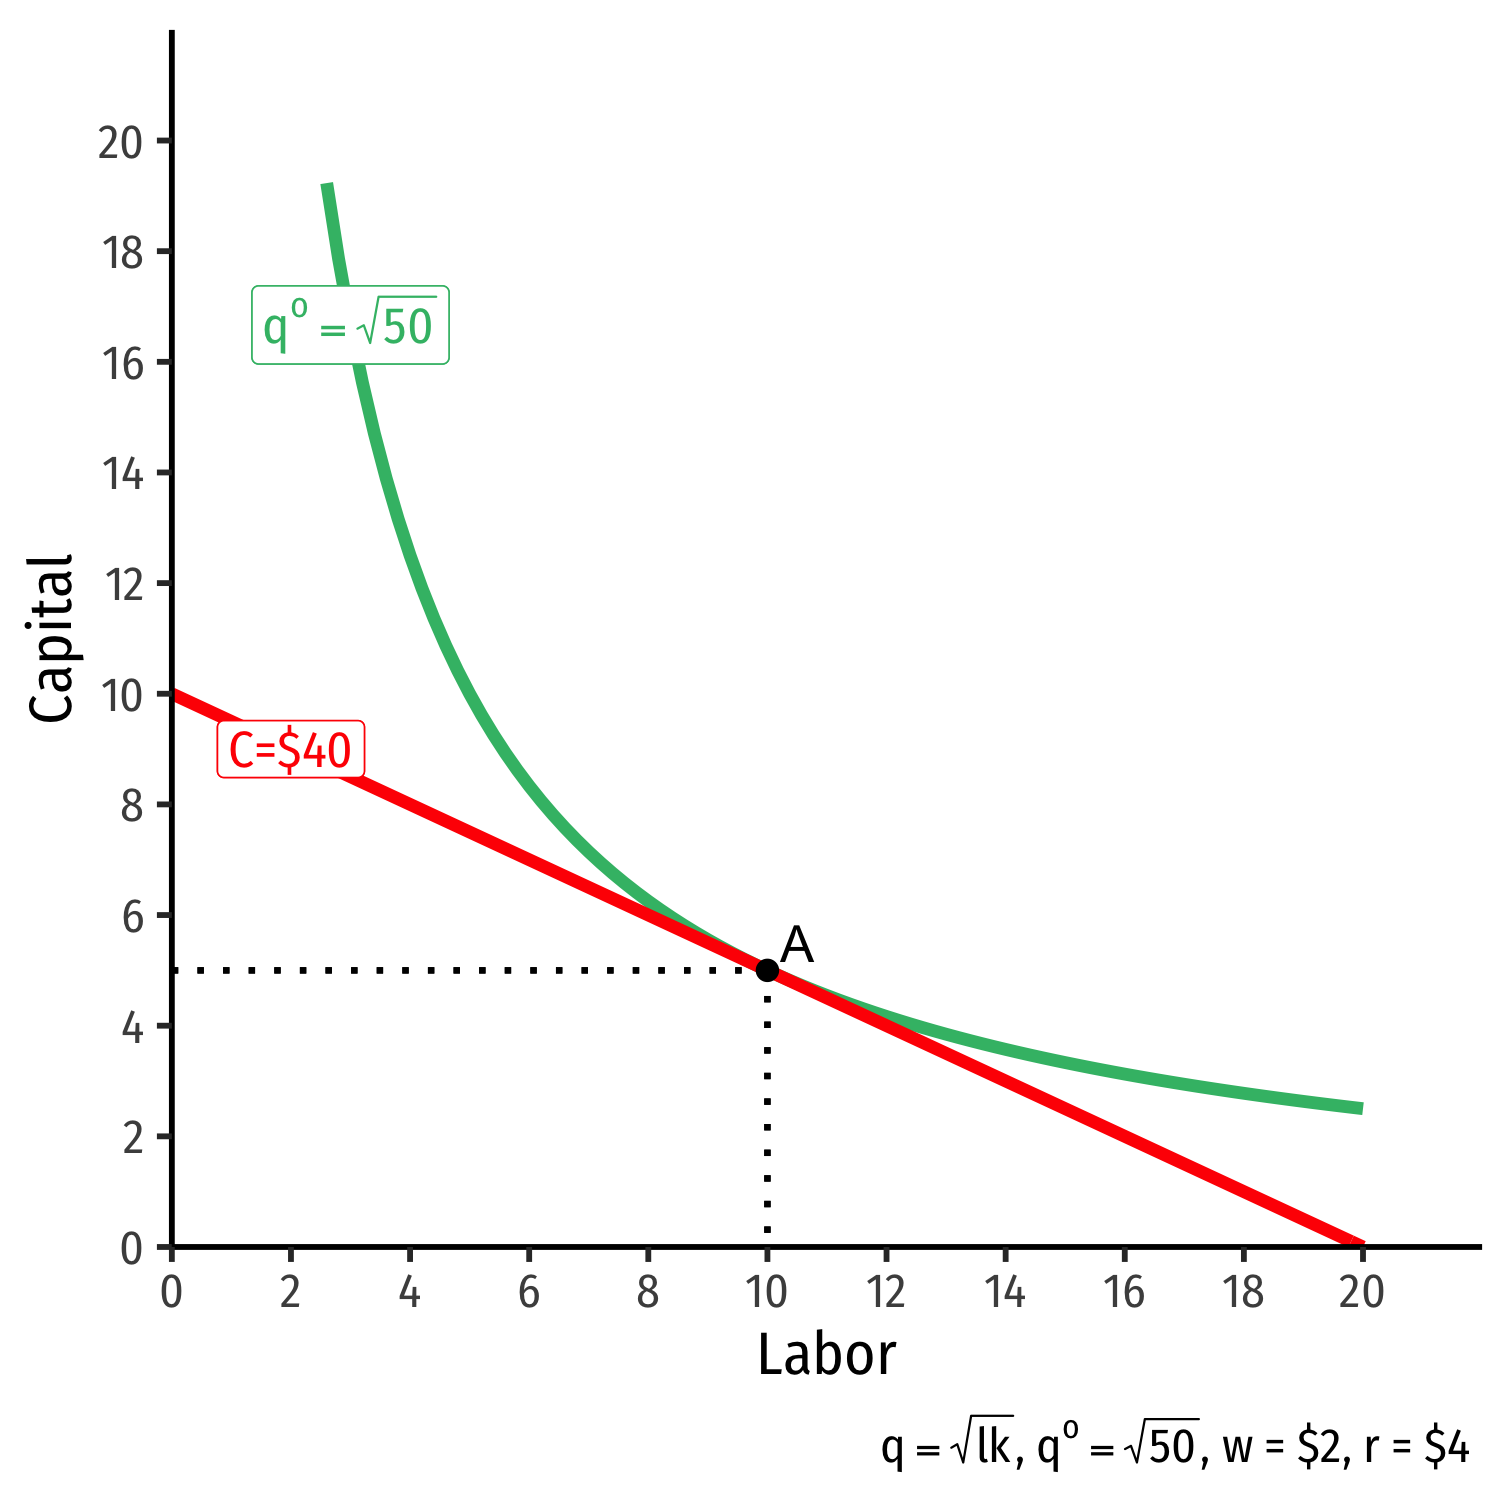
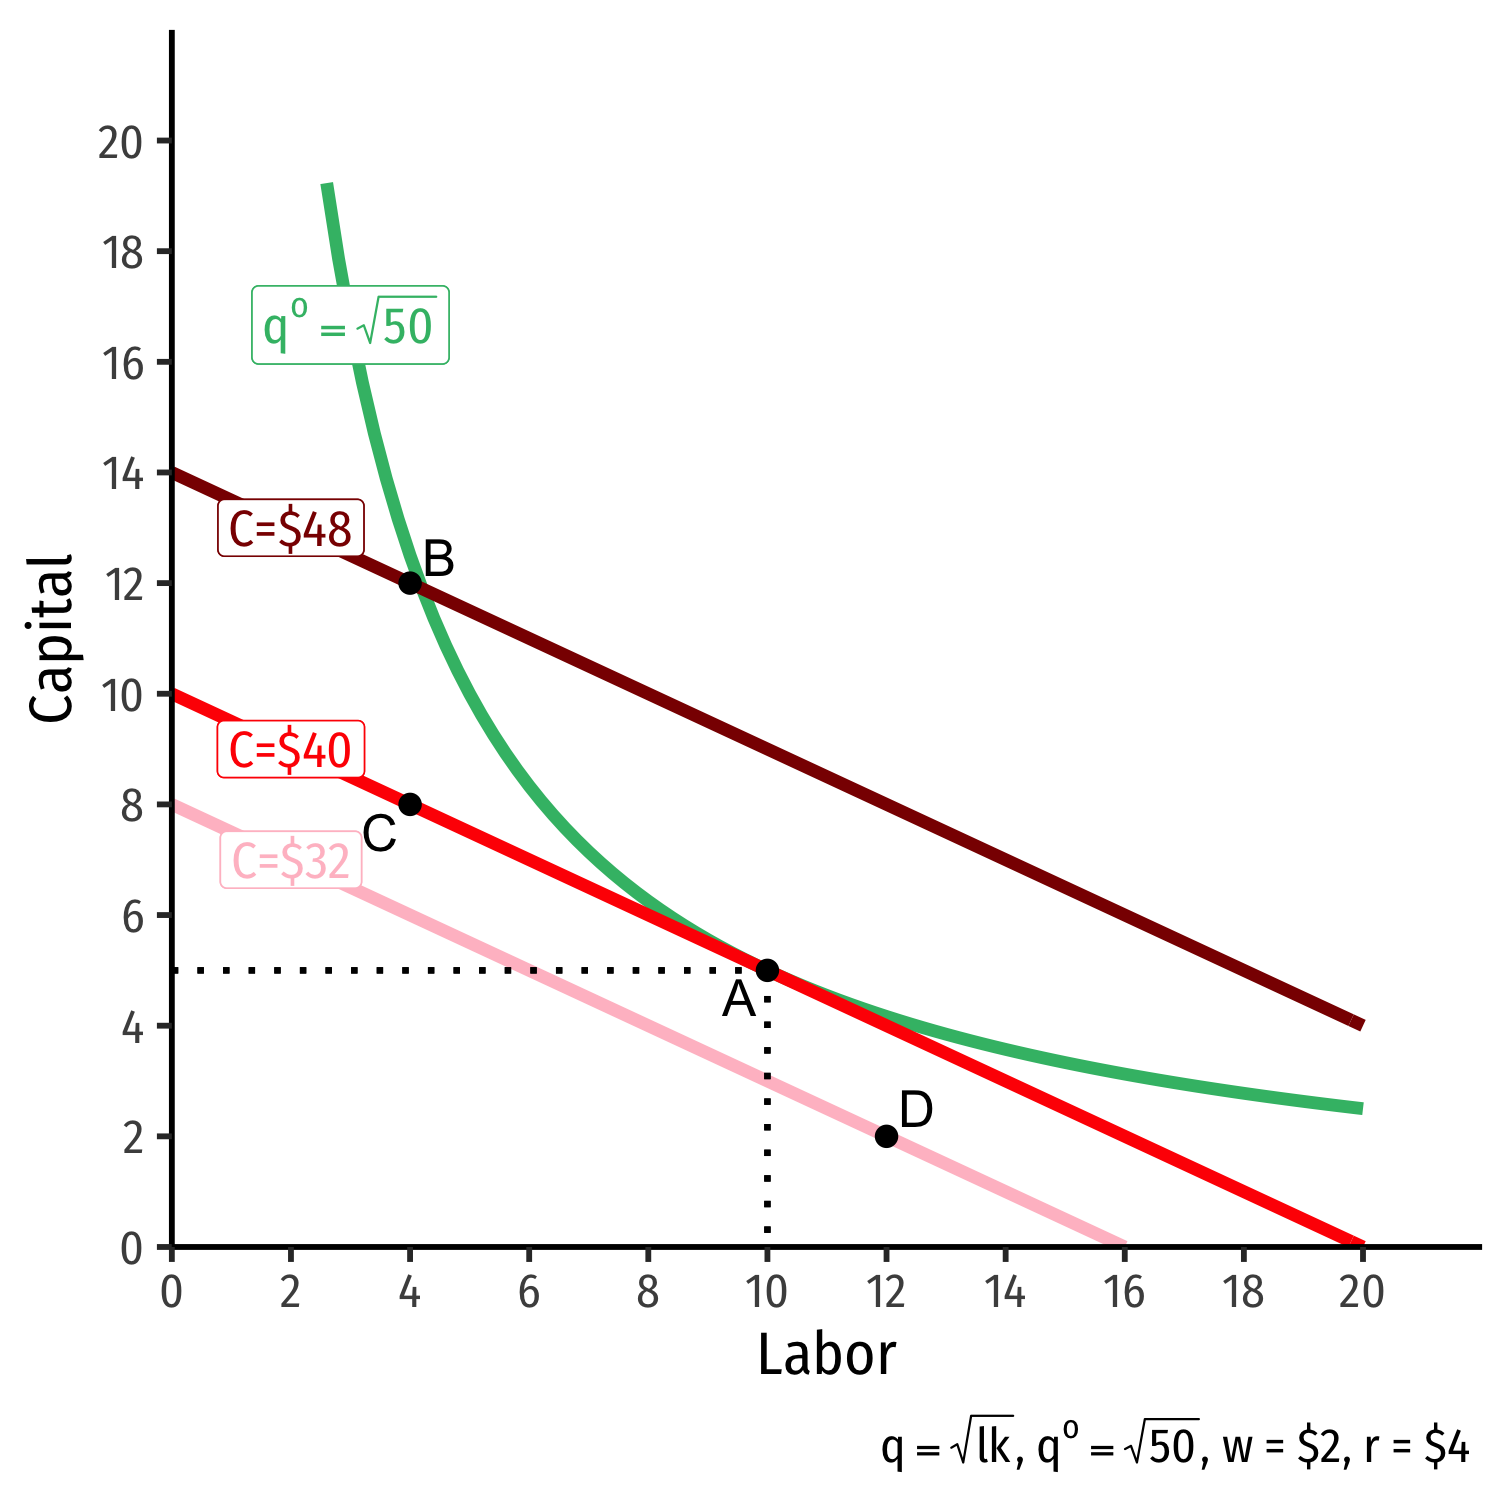
Tweak slides 2.3

diff --git a/static/slides/2.3-slides.html b/static/slides/2.3-slides.html
@@ -109,7 +109,10 @@ class: inverse, center, middle
 # The Cost Minimization Problem: Verbally
 
 .pull-left[
-- The **firms's cost minimization problem**: choose `\(l\)` and `\(k\)` to minimize total cost subject to producing the optimal amount of output
+- The .hi[firms's cost minimization problem]: 
+
+&gt; choose a combination of `\(l\)` and `\(k\)` to minimize total cost that produces the optimal amount of output
+
 ]
 
 .pull-right[
@@ -143,13 +146,7 @@ class: inverse, center, middle
 
 .pull-left[
 
-- .hi[Graphical solution]: Lowest isocost line *tangent* to desired isoquant (A)
-
-- B produces same output as A, but higher cost
-
-- C is same cost as A, but produces less than desired output
-
-- D produces is cheaper, but produces less than desired output
+- .hi[Graphical solution]: **Lowest** .hi-red[isocost line] **_tangent_ to desired** .hi-green[isoquant] (A)
 
 ]
 
@@ -160,12 +157,17 @@ class: inverse, center, middle
 
 ---
 
-# The Firm's Least-Cost Input Combination: Why A?
+# The Firm's Least-Cost Input Combination: Graphically
 
 .pull-left[
 
-`$$\begin{align*}
-\text{Isoquant curve slope} &amp;= \text{Isocost line slope} \\\end{align*}$$`
+- .hi[Graphical solution]: **Lowest** .hi-red[isocost line] **_tangent_ to desired** .hi-green[isoquant] (A)
+
+- B produces same output as A, but higher cost
+
+- C is same cost as A, but produces less than desired output
+
+- D produces is cheaper, but produces less than desired output
 
 ]
 
@@ -181,12 +183,28 @@ class: inverse, center, middle
 .pull-left[
 
 `$$\begin{align*}
-\text{Isoquant curve slope} &amp;= \text{Isocost line slope} \\
-| MRTS_{l,k} | &amp;= | \frac{w}{r} | \\
-| \frac{MP_l}{MP_k} | &amp;= | \frac{w}{r} | \\
-| -0.5 | &amp;= | -0.5 | \\\end{align*}$$`
+\color{green}{\text{Isoquant curve slope}} &amp;= \color{red}{\text{Isocost line slope}} \\ \end{align*}$$`
 
-- *Firm* would exchange at same rate as market
+]
+
+.pull-right[
+
+&lt;img src="2.3-slides_files/figure-html/unnamed-chunk-3-1.png" width="504" /&gt;
+]
+
+---
+
+# The Firm's Least-Cost Input Combination: Why A?
+
+.pull-left[
+
+`$$\begin{align*}
+\color{green}{\text{Isoquant curve slope}} &amp;= \color{red}{\text{Isocost line slope}} \\
+\color{green}{| MRTS_{l,k} |} &amp;= \color{red}{| \frac{w}{r} |} \\
+\color{green}{| \frac{MP_l}{MP_k} |} &amp;= \color{red}{| \frac{w}{r} |} \\
+\color{green}{| -0.5 |} &amp;= \color{red}{| -0.5 |} \\\end{align*}$$`
+
+- .hi-green[Firm] would exchange at same rate as .hi-red[market]
 
 - **No other combination** of `\((l,k)\)` **exists** at current prices &amp; output that could lower cost to produce `\(q^*\)`!
 
@@ -194,7 +212,7 @@ class: inverse, center, middle
 
 .pull-right[
 
-&lt;img src="2.3-slides_files/figure-html/unnamed-chunk-3-1.png" width="504" /&gt;
+&lt;img src="2.3-slides_files/figure-html/unnamed-chunk-4-1.png" width="504" /&gt;
 ]
 
 ---
@@ -213,7 +231,7 @@ class: inverse, center, middle
 
 .pull-right[
 
-&lt;img src="2.3-slides_files/figure-html/unnamed-chunk-4-1.png" width="504" /&gt;
+&lt;img src="2.3-slides_files/figure-html/unnamed-chunk-5-1.png" width="504" /&gt;
 ]
 
 ---
@@ -238,7 +256,7 @@ class: inverse, center, middle
 
 .pull-right[
 
-&lt;img src="2.3-slides_files/figure-html/unnamed-chunk-5-1.png" width="504" /&gt;
+&lt;img src="2.3-slides_files/figure-html/unnamed-chunk-6-1.png" width="504" /&gt;
 ]
 
 ---
@@ -250,7 +268,7 @@ class: inverse, center, middle
 - .hi[Equimarginal Rule]: the cost of production is minimized where the **marginal product per dollar spent** is **equalized** across all `\(n\)` possible inputs
 
 - Firm will always choose an option that gives higher marginal product (e.g. if `\(MP_l &gt; MP_k)\)`
-    - But each option has a different cost, so we weight each option by its cost, hence `\(\frac{MP_l}{w}\)`
+    - But each option has a different cost, so we weight each option by its cost, hence `\(\frac{MP_n}{p_n}\)`
     
 ---
 
@@ -260,16 +278,11 @@ class: inverse, center, middle
 
 - Why is this the optimum? 
 
-.content-box-green[
-.green[**Example**]: suppose firm could get a higher marginal product per $1 spent on `\(l\)` than for `\(k\)` (i.e. "more bang for your buck"!)
-
-- Not minimizing costs!
-- Use more `\(l\)` and less `\(k\)`!
-    - This will raise `\(MP_k\)` and lower `\(MP_l\)`!
-
-- Continues until cost-adjusted marginal products are equalized
-
-]
+- .hi-green[Example:] suppose firm could get a higher marginal product per $1 spent on `\(l\)` than for `\(k\)` (i.e. "more bang for your buck"!)
+  - Not minimizing costs!
+  - Should use more `\(l\)` and less `\(k\)`!
+      - This will raise `\(MP_k\)` and lower `\(MP_l\)`!
+  - Continue until cost-adjusted marginal products are equalized
 
 ---
 
@@ -326,31 +339,20 @@ class: inverse, center, middle
 
 - The .hi[returns to scale] of production refers to the change in output when all inputs are increased *at the same rate*
 
-`$$q=f(k,l) \rightarrow q=f(ck,cl) \text{ for some }c$$`
-
----
-
-# *Constant* Returns to Scale
+--
 
 - .hi-purple[Constant returns to scale]: output increases at same proportionate rate as inputs increase
     - e.g. if you double all inputs, output doubles
-    `$$f(2k,2l)=2f(k,l)$$`
 
----
-
-# *Increasing* Returns to Scale
+--
 
 - .hi-purple[Increasing returns to scale]: output increases *more than* proportionately to the change in inputs
     - e.g. if you double all inputs, output *more than* doubles
-    `$$f(ck,cl)&lt;cf(k,l)$$`
 
----
-
-# *Decreasing* Returns to Scale
+--
 
 - .hi-purple[Decreasing returns to scale]: output increases *less than* proportionately to the change in inputs
     - e.g. if you double all inputs, output *less than* doubles
-    `$$f(ck,cl)&gt;cf(k,l)$$`
 
 ---
 

diff --git a/static/slides/custom.css b/static/slides/custom.css
@@ -45,7 +45,7 @@
 }
 .hi-red {
   font-weight: 600;
-  color: #fb6107 !important;
+  color: #D7250E !important;
 }
 /* Pink text */
 .pink {
@@ -80,7 +80,7 @@
   color: #0047AB !important;
 }
 .red {
-  color: #fb6107 !important;
+  color: #D7250E !important;
 }
 
 /* Grey text */
